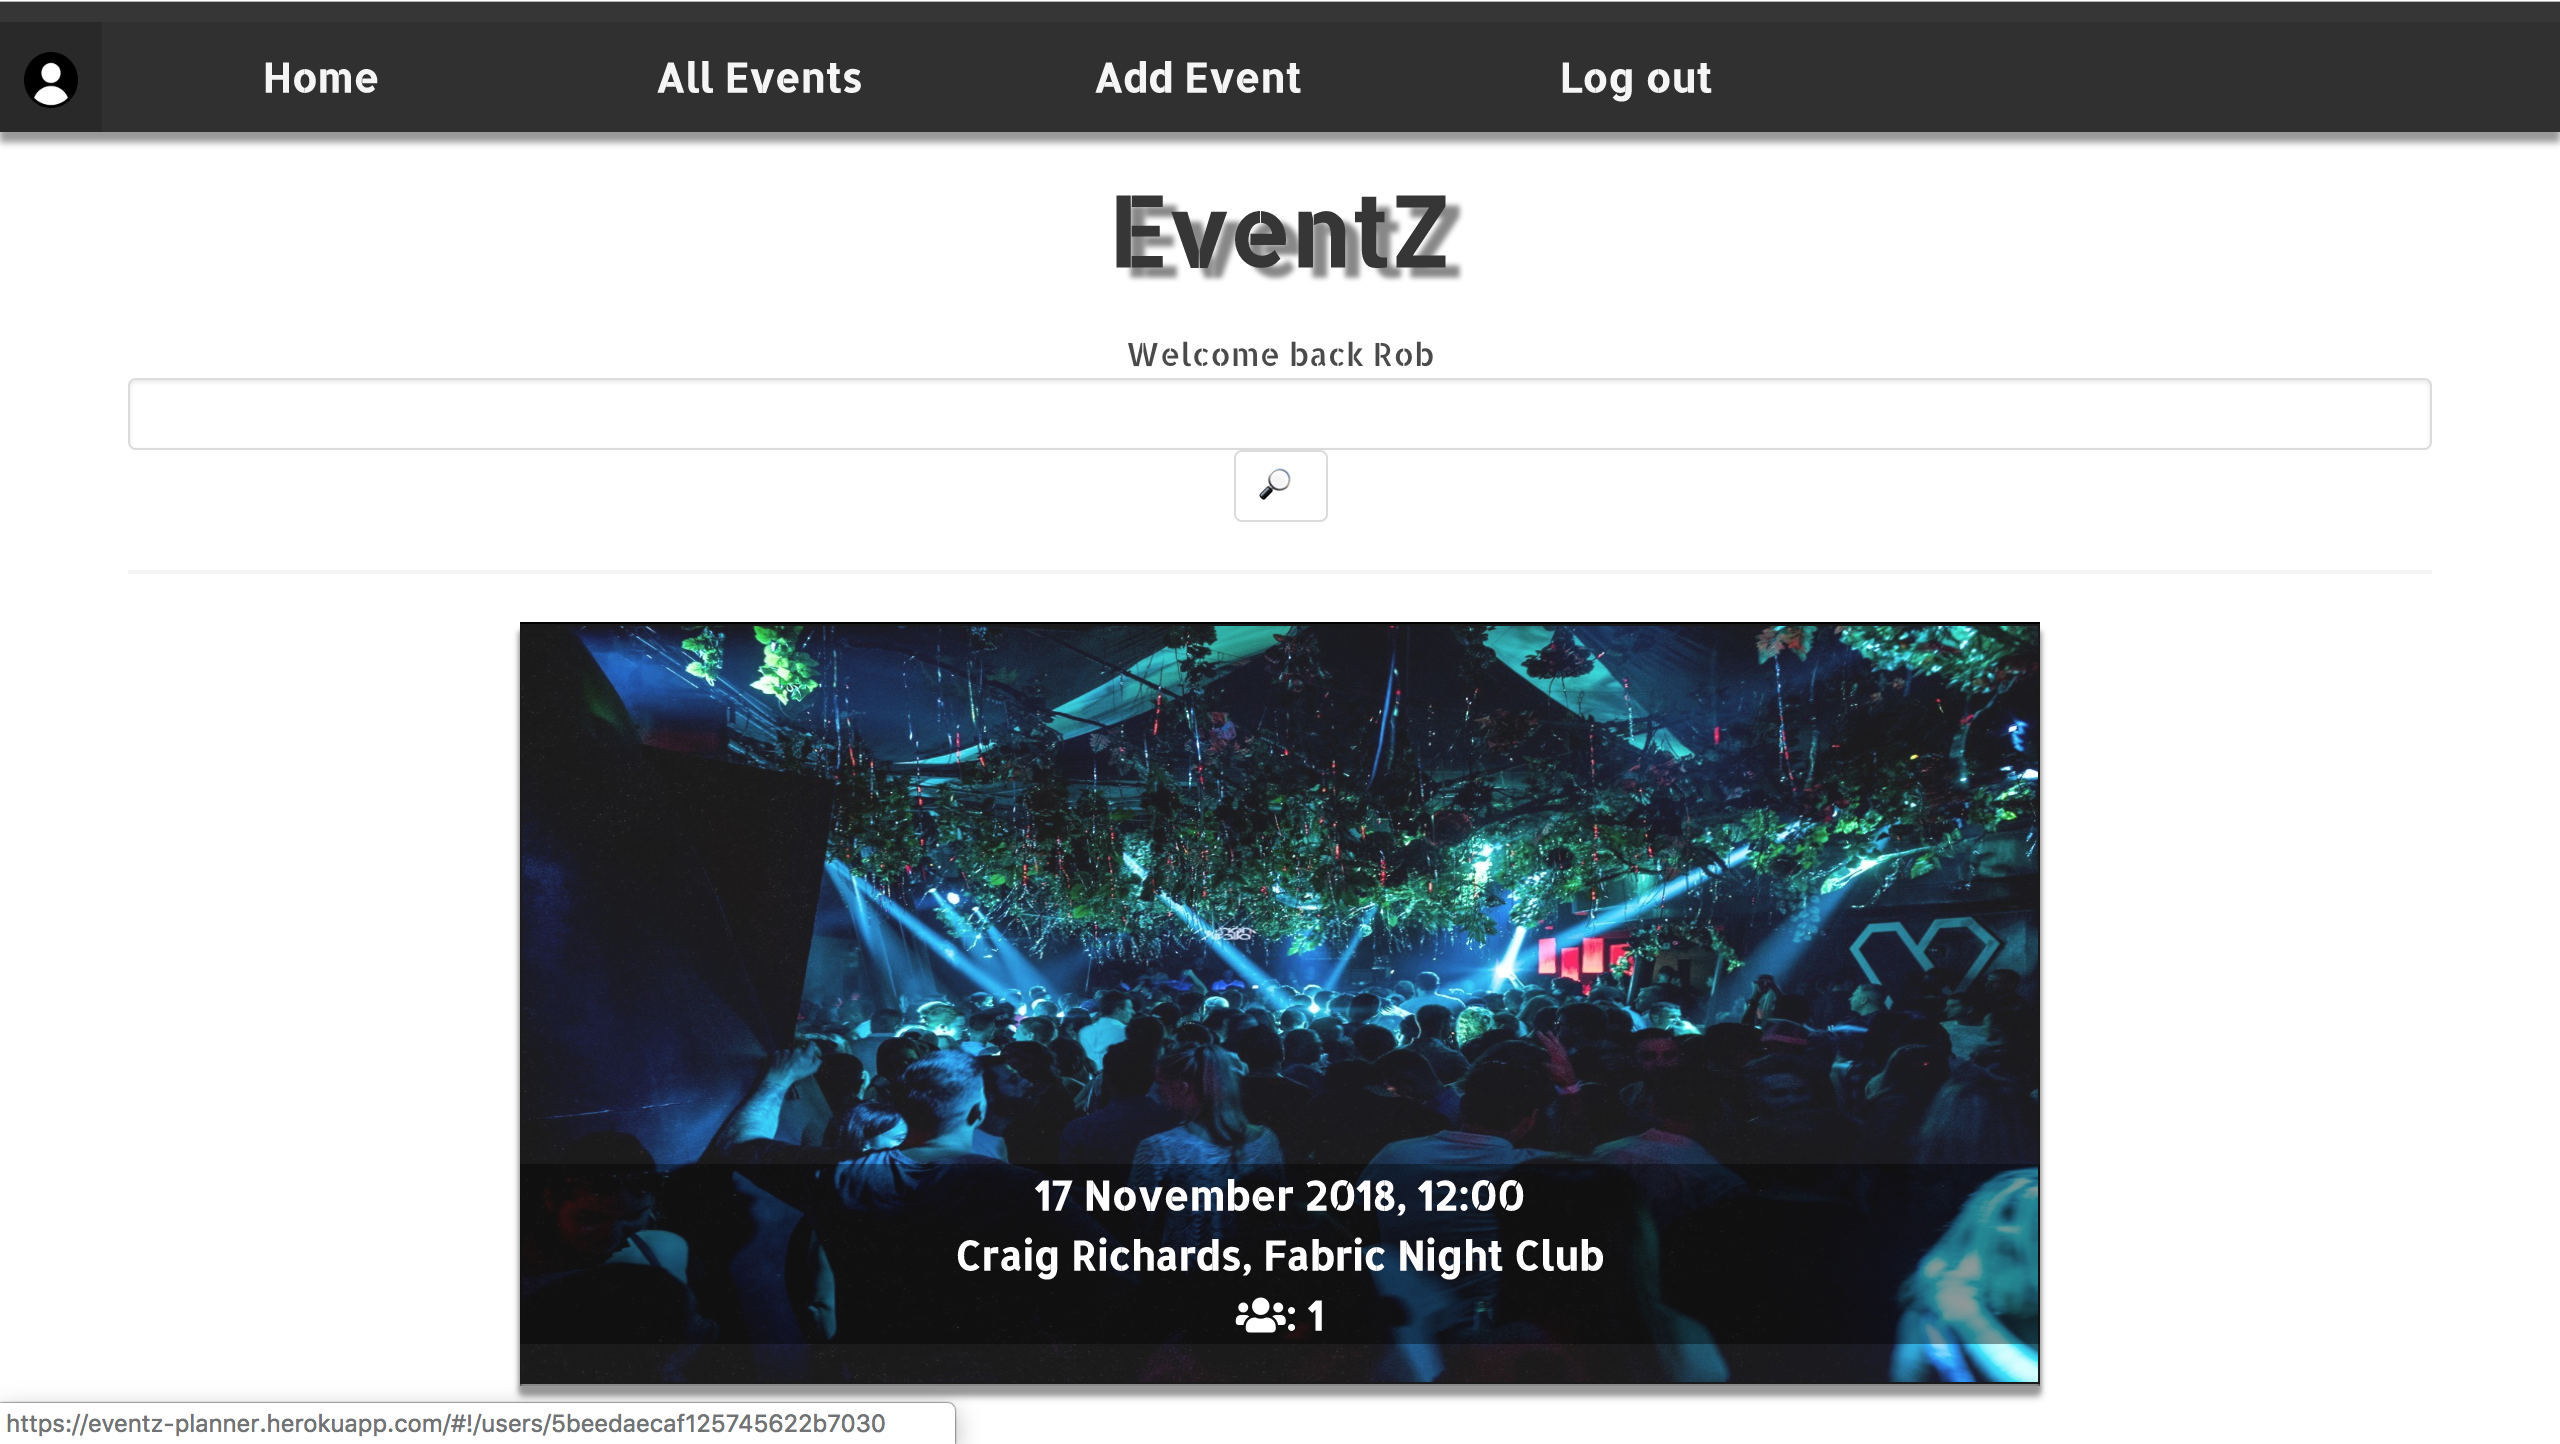
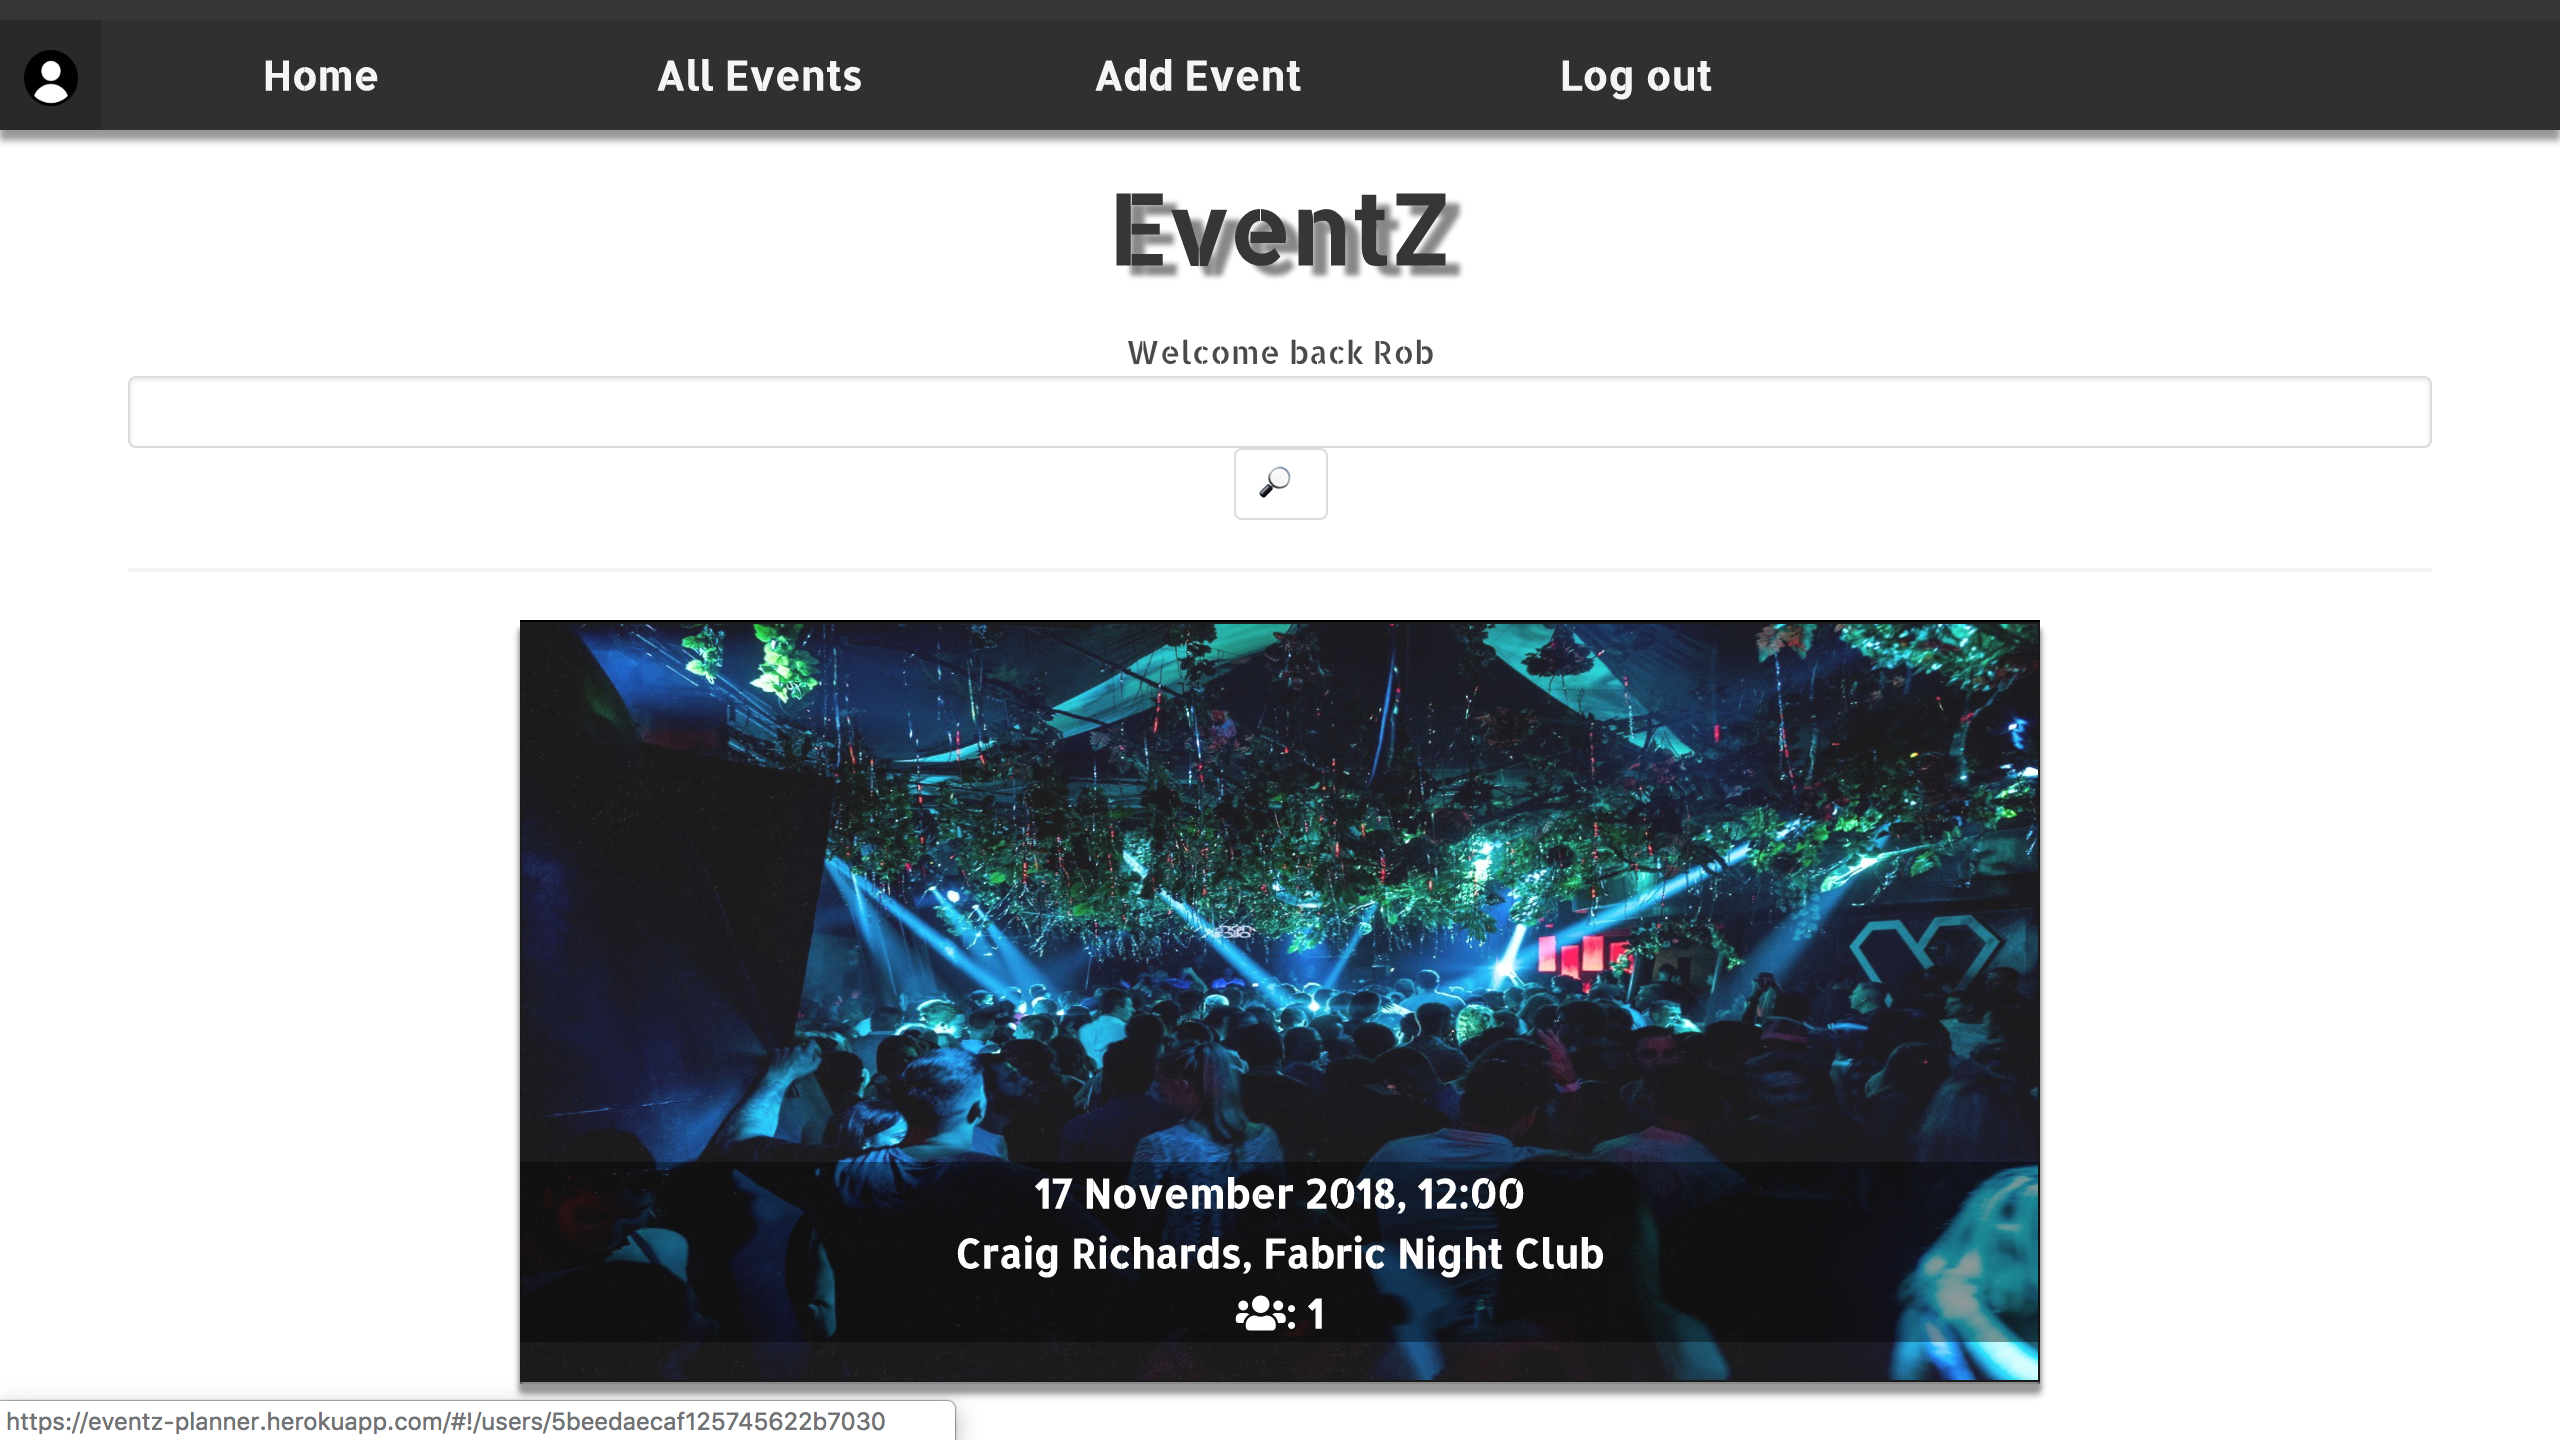
Changed colour palette, set up template for colour changes. Edited canvas.

diff --git a/css/style.css b/css/style.css
@@ -3,13 +3,13 @@ canvas {
   z-index: -1;
   left: 0;
   top: 0;
-  opacity: 1;
+  opacity: 0.8;
 }
 
 body {
   text-align: center;
-  background-color: #112F41;
-  color: #068587;
+  background-color: #393E46;
+  color: #FFF4E0;
   font-family: Helvetica;
   height: 100vh;
   width: 100vw;
@@ -23,16 +23,16 @@ body main a:hover {
   text-decoration: underline;
 }
 body hr {
-  border-color: #F2B134;
+  border-color: #00ADB5;
 }
 body a {
-  color: #F2B134;
+  color: #FC3C3C;
   text-decoration: none;
 }
 body h2 {
-  color: #4FB99F;
-  text-transform: uppercase;
+  color: #FFF4E0;
   font-size: 30px;
+  text-transform: uppercase;
 }
 body .about-header h2, body .projects h2 {
   margin-bottom: 0;
@@ -53,20 +53,21 @@ nav {
 nav span {
   transition: all 1s;
   margin: 0 2px;
-  background-color: #ED553B;
+  background-color: #F8B500;
   padding: 5px;
   width: 10px;
   overflow: hidden;
 }
 nav span a {
   vertical-align: middle;
-  color: #ED553B;
+  color: #F8B500;
 }
 nav span.active, nav span:hover {
   width: 90px;
 }
 nav span.active a, nav span:hover a {
-  color: #F2B134;
+  color: #393E46;
+  font-weight: 700;
 }
 
 div.contact {
@@ -83,12 +84,13 @@ div.contact {
 div.contact p {
   box-sizing: border-box;
   margin: 2px 0;
-  background-color: #ED553B;
+  background-color: #F8B500;
   width: 30px;
   height: 30px;
   font-size: 21px;
 }
 div.contact p a {
+  color: #393E46;
   vertical-align: middle;
 }
 div.contact p a i {
@@ -106,10 +108,10 @@ section.header .text {
 }
 section.header .text h1 {
   font-size: 45px;
-  color: #4FB99F;
+  color: #FFF4E0;
 }
 section.header .text h2 {
-  color: #068587;
+  color: #00ADB5;
 }
 
 section.projects {
@@ -140,14 +142,14 @@ section.projects .description div.title {
   top: 30%;
   transition: all 2s;
   height: 15%;
-  color: #4FB99F;
+  color: #00ADB5;
 }
 section.projects .description div.stack {
   position: relative;
   bottom: 35%;
   transition: all 2s;
   height: 15%;
-  color: #4FB99F;
+  color: #00ADB5;
 }
 section.projects .description div.text {
   transition: opacity 2s;
@@ -192,17 +194,26 @@ section.about div.text {
   max-width: 60%;
 }
 section.about div.icon-links {
-  font-size: 26px;
+  color: #00ADB5;
+  font-size: 22px;
   margin-bottom: 24px;
 }
+section.about div.icon-links h4 {
+  text-transform: uppercase;
+}
+section.about div.icon-links a {
+  color: #FFF4E0;
+}
 section.about div.tech-box p {
-  color: #4FB99F;
+  color: #00ADB5;
 }
 section.about div.tech, section.about div.skills {
-  color: #F2B134;
   display: flex;
   justify-content: center;
   flex-wrap: wrap;
+}
+section.about div.tech i, section.about div.tech b, section.about div.skills i, section.about div.skills b {
+  color: #00ADB5;
 }
 section.about div.tech span, section.about div.skills span {
   padding: 10px 0;
@@ -210,7 +221,7 @@ section.about div.tech span, section.about div.skills span {
 }
 section.about div.tech img, section.about div.skills img {
   height: 16px;
-  vertical-align: top;
+  vertical-align: middle;
 }
 
 /*# sourceMappingURL=style.css.map */

diff --git a/scss/main.scss b/scss/main.scss
@@ -3,12 +3,23 @@ canvas {
   z-index: -1;
   left: 0;
   top: 0;
-  opacity: 1;
+  opacity: 0.8;
 }
+
+// #112F41, #068587, #4FB99F, #F2B134, #ED553B
+
+// #393E46, #00ADB5, #FFF4E0, #F8B500, #FC3C3C
+
+$bg-color: #393E46;
+$detail-color: #00ADB5;
+$thumb-color: #F8B500;
+$text-color: #FFF4E0;
+$emphasis-color: #FC3C3C;
+
 body {
   text-align: center;
-  background-color: #112F41;
-  color: #068587;
+  background-color: $bg-color;
+  color: $text-color;
   font-family: Helvetica;
   height: 100vh;
   width: 100vw;
@@ -23,19 +34,20 @@ body {
   }
 
   hr {
-    border-color: #F2B134;
+    border-color: $detail-color;
   }
 
   a {
-    color: #F2B134;
+    color: $emphasis-color;
     text-decoration: none;
   }
 
   h2 {
-    color: #4FB99F;
-    text-transform: uppercase;
+    color: $text-color;
     font-size: 30px;
+    text-transform: uppercase;
   }
+
   .about-header, .projects{
     h2 {
       margin-bottom: 0;
@@ -60,16 +72,17 @@ nav {
     margin: 0 2px;
     a {
       vertical-align: middle;
-      color: #ED553B;
+      color: $thumb-color;
     }
-    background-color: #ED553B;
+    background-color: $thumb-color;
     padding: 5px;
     width: 10px;
     overflow: hidden;
   }
   span.active, span:hover {
     a {
-      color: #F2B134;
+      color: $bg-color;
+      font-weight: 700;
     }
     width: 90px;
   }
@@ -88,11 +101,12 @@ div.contact {
   p {
     box-sizing: border-box;
     margin: 2px 0;
-    background-color: #ED553B;
+    background-color: $thumb-color;
     width: 30px;
     height: 30px;
     font-size: 21px;
     a {
+      color: $bg-color;
       vertical-align: middle;
       i {
         vertical-align: middle;
@@ -109,10 +123,10 @@ section.header {
     text-transform: uppercase;
     h1 {
       font-size: 45px;
-      color: #4FB99F;
+      color: $text-color;
     }
     h2 {
-      color: #068587;
+      color: $detail-color;
     }
   }
 }
@@ -147,14 +161,14 @@ section.projects {
       top: 30%;
       transition: all 2s;
       height: 15%;
-      color: #4FB99F;
+      color: $detail-color;
     }
     div.stack {
       position: relative;
       bottom: 35%;
       transition: all 2s;
       height: 15%;
-      color: #4FB99F;
+      color: $detail-color;
     }
     div.text {
       transition: opacity 2s;
@@ -205,26 +219,35 @@ section.about {
     max-width: 60%;
   }
   div.icon-links {
-    font-size: 26px;
+    color: $detail-color;
+    font-size: 22px;
     margin-bottom: 24px;
+    h4 {
+      text-transform: uppercase;
+    }
+    a {
+      color: $text-color;
+    }
   }
   div.tech-box {
     p {
-      color: #4FB99F;
+      color: $detail-color;
     }
   }
   div.tech, div.skills {
-    color: #F2B134;
     display: flex;
     justify-content:center;
     flex-wrap: wrap;
+    i, b {
+      color: $detail-color;
+    }
     span {
       padding: 10px 0;
       width: 25%;
     }
     img {
       height: 16px;
-      vertical-align: top;
+      vertical-align: middle;
     }
   }
 }

diff --git a/canvas-lines.js b/canvas-lines.js
@@ -4,9 +4,9 @@ canvas.height = window.innerHeight;
 
 
 const c = canvas.getContext('2d');
-const colours = ['#068587', '#4FB99F'];
-const lineColour = 'rgba(0,0,0, 0)';
-const highLightColour = '#F2B134';
+const colours = ['rgba(252, 60, 60, 1)'];
+const lineColours = ['rgba(0, 173, 181, 0.1)'];
+const highLightColour = '#FFF4E0';
 let circles = [];
 
 const mouse = {
@@ -30,26 +30,27 @@ function handleMouseMove(event){
 
 function init(){
   circles = [];
-  for(let i = 0; i < 500; i++){
+  for(let i = 0; i < 50; i++){
     const radius = 1;
     const x = Math.random() * (canvas.width - radius * 2) + radius;
     const y = Math.random() * (canvas.height - radius * 2) + radius;
     const dx = (Math.random() - 0.5) * 0.5;
     const dy = (Math.random() - 0.5) * 0.5;
     const colour = colours[Math.floor(Math.random() * colours.length)];
-    circles.push(new Circle(x, y, dx, dy, radius, colour));
+    const lineColour = lineColours[Math.floor(Math.random() * lineColours.length)];
+    circles.push(new Circle(x, y, dx, dy, radius, colour, lineColour));
   }
 }
 
-function Circle(x, y, dx, dy, radius, colour){
+function Circle(x, y, dx, dy, radius, colour, lineColour){
   this.x = x;
   this.y = y;
   this.dx = dx;
   this.dy = dy;
   this.radius = radius;
-  this.lineColour = lineColour;
 
   this.colour = colour;
+  this.lineColour = lineColour;
   this.draw = function(){
     c.beginPath();
     c.moveTo(this.x, this.y);
@@ -77,7 +78,7 @@ function Circle(x, y, dx, dy, radius, colour){
 
     //adding interactivity with mouse:
 
-    if(mouse.x - this.x < 50 && mouse.x - this.x > -50){
+    if(mouse.x - this.x < 25 && mouse.x - this.x > -25){
       this.lineColour = highLightColour;
 
     } else {

diff --git a/index.html b/index.html
@@ -24,7 +24,7 @@
       <div class="text">
         <h1>Shamsher Shamsiddin-zoda</h1>
         <hr>
-        <h2>Junior Web Developer</h2>
+        <h2>Web Developer</h2>
       </div>
     </section>
 
@@ -178,7 +178,7 @@
           <span><i class="icon-css3-alt"></i> CSS3</span>
           <span><b><%</b> EJS</span>
           <span>Express</span>
-          <span><img height="16px;" src="images/icon-small-insomnia.png" alt="insomnia logo"> Insomnia</span>
+          <span><img src="images/icon-small-insomnia.png" alt="insomnia logo"> Insomnia</span>
         </div>
         <div class="tech">
           <span><i class="icon-sass"></i> Sass</span>
@@ -188,7 +188,7 @@
         </div>
       </div>
       <div class="icon-links">
-        <h2>Get in touch</h2>
+        <h4>Get in touch</h4>
         <span><a target="_blank" href="https://github.com/ShamSZ"><i class="fab fa-github"></i></a> <a target="_blank" href="https://github.com/ShamSZ">GitHub</a></span>
         |
         <span><a target="_blank" href="https://www.linkedin.com/in/ShamSZ"><i class="fab fa-linkedin"></i></a> <a target="_blank" href="https://www.linkedin.com/in/ShamSZ">LinkedIn</a></span>
